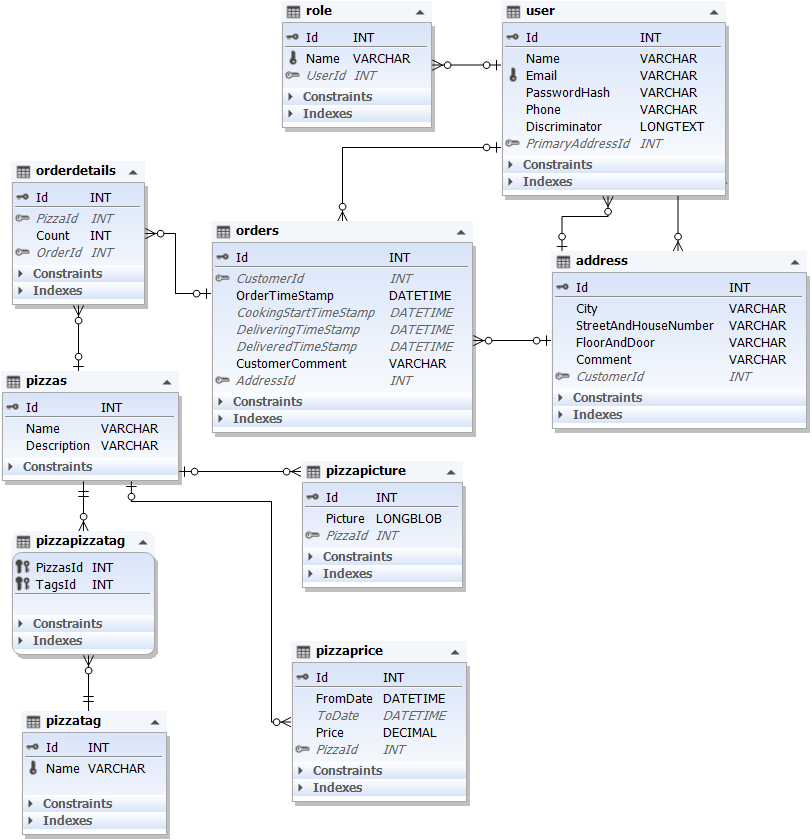
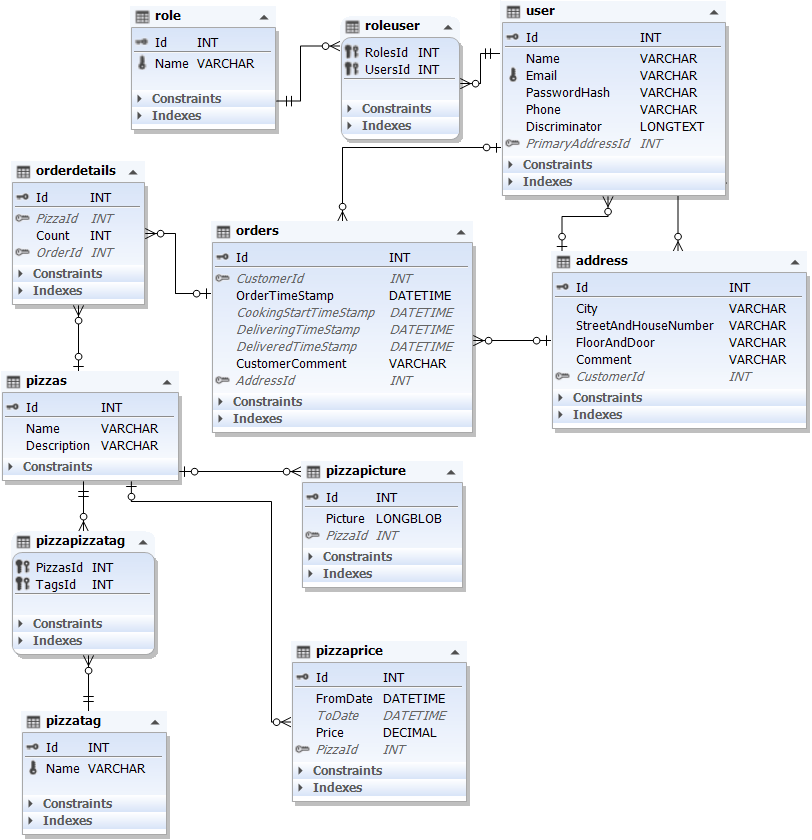
EmployeeRepository

Changed region(s): [[0.1539, 0.0, 0.6158, 0.1857]]

diff --git a/pizzeria/adatbazisLetrehozasa.html b/pizzeria/adatbazisLetrehozasa.html
@@ -217,6 +217,12 @@
     </div>
 </div>
 <p>
+    A létrehozott <i>ApplicationDbContext</i> osztály:
+</p>
+<div class="w-75 mx-auto mb-3" style="max-height: 400px; overflow-y: auto;">
+    <pre class="mb-0"><code class="language-csharp" data-url="Jedlik_FeladatMegoldasok/4a617e19df49f219e930ea651e53b50beeae279e/Fullstack/pizzarendel%C3%A9s/pizzeria.service/ApplicationDbContext.cs" ></code></pre>
+</div>
+<p>
     A következő lépés az adatbázis tényleges létrehozása:
 </p>
 <div class="w-75 mx-auto text-center" style="min-width: 680px;">
@@ -251,14 +257,19 @@
     <img src="DBDiagram_1.png" alt="Db diagram hibás" width="720">
 </p>
 <P>
-    Van vele egy kis gond: egy pizzához csak <i>tag</i>-et lehet rendelni, azaz a két tábla közötti kapcsolat jelenleg 1:N, miközben N:M kapcsolatra lenne szükség. 
-    Ennek a megoldása viszonylag egyszerű: szükség van egy újabb jellemzőre a <i>PizzaTag</i> osztályban: <i>Pizzas</i>.
+    Van vele két probléma: 
+    <ul>
+        <li>
+            Egy pizzához csak <i>tag</i>-et lehet rendelni, azaz a két tábla közötti kapcsolat jelenleg 1:N, miközben N:M kapcsolatra lenne szükség. 
+            Ennek a megoldása viszonylag egyszerű: szükség van egy újabb jellemzőre a <i>PizzaTag</i> osztályban: <i>Pizzas</i>.        
+        </li>
+        <li>
+            A felhasználók és a szerepek között sincs meg az N:M kapcsolat. Itt a <i>Role</i> osztályban egy új <i>Users</i> jellemzővel lehet ezt kikényszeríteni.
+        </li>
+    </ul>
 </P>
-<div class="w-75 mx-auto">
-    <pre class="mb-0"><code class="language-csharp" data-url="Jedlik_FeladatMegoldasok/4a617e19df49f219e930ea651e53b50beeae279e/Fullstack/pizzarendel%C3%A9s/pizzeria.service/models/PizzaTag.cs" ></code></pre>
-</div>
 <p>
-    A javítás és az adatbázis ismételt létrehozása videón:
+    A <i>Pizza</i> és <i>Pizzatag</i> osztályokra vonatkozó javítás és az adatbázis ismételt létrehozása videón:
 </p>
 <div class="w-75 mx-auto text-center" style="min-width: 680px;">
     <ul class="nav nav-tabs" id="myTab5" role="tablist">
@@ -291,43 +302,96 @@
 <p class="text-center py-2">
     <img src="DBDiagram_2.png" alt="Db diagram kész" width="720">
 </p>
-
-<p>
-    Az előző ábrához képest a változás az, hogy megjelent a <i>PizzaPizzatag</i> tábla, ami biztosítja az N:M kapcsolatot a pizzák és tagek között. A fejlesztés egy későbbi fázisában azonban kiderült, hogy ennek a táblának a létrehozását 
-    nem lehet ennyire az Entity Framework-re bízni. Ezen kívül a <i>Pizza</i> osztályban a <i>Tags</i> jellemző értékét nem lehet írni, hiszen most már nincs kapcsolatban az adatbázissal.
-    <br>
-    A szükséges módosítások:
+<p class="mt-2">
+    A módosítások során valamilyen okból az EF átnevezte a <i>User</i> táblát <i>Employees</i>-re. Ez bár nem lenne nagy gond, engem mégis zavart, ezért az <i>User</i>
+    osztály esetében meghatározásra került a tábla neve. Az osztályok, amelyek változtak:
 </p>
 <div>
-    <ul class="nav nav-tabs" id="tabModells_1" role="tablist">
+    <ul class="nav nav-tabs" id="myTab_2" role="tablist">
         <li class="nav-item" role="presentation">
             <button class="nav-link active" id="tab-elso_2" data-bs-toggle="tab" data-bs-target="#tabelso_2" type="button"  role="tab" aria-controls="tabelso_2" aria-selected="true">
-                PizzaPizzaTag
+                PizzaTag
             </button>
         </li>
         <li class="nav-item" role="presentation">
             <button class="nav-link" id="tab-masodik_2" data-bs-toggle="tab" data-bs-target="#tabmasodik_2" type="button"  role="tab" aria-controls="tabmasodik_2" aria-selected="true">
-                Pizza
+                Role
             </button>
         </li>
         <li class="nav-item" role="presentation">
             <button class="nav-link" id="tab-harmadik_2" data-bs-toggle="tab" data-bs-target="#tabharmadik_2" type="button"  role="tab" aria-controls="tabharmadik_2" aria-selected="true">
-                PizzaTag
+                User
             </button>
         </li>
     </ul>
-    <div class="tab-content" id="tabcontentModells_1">
-        <div class="tab-pane fade show active" id="tabelso_2" role="tabpanel" aria-labelledby="tab-elso_2">
-            <pre class="mb-0"><code class="language-csharp" data-url="Jedlik_FeladatMegoldasok/dcd38a51f0e377aac43390c23773f7388c454047/Fullstack/pizzarendel%C3%A9s/pizzeria.service/models/PizzaPizzaTag.cs" ></code></pre>            
+    <div class="tab-content" id="myTabContent_2">
+        <div class="tab-pane fade show active overflow-auto" style="max-height: 620px;" id="tabelso_2" role="tabpanel" aria-labelledby="tab-elso_2">
+            <pre class="mb-0"><code class="language-csharp" data-url="Jedlik_FeladatMegoldasok/4a617e19df49f219e930ea651e53b50beeae279e/Fullstack/pizzarendel%C3%A9s/pizzeria.service/models/PizzaTag.cs" ></code></pre>            
         </div>
-        <div class="tab-pane fade" id="tabmasodik_2" role="tabpanel" aria-labelledby="tab-masodik_2">
-            <pre class="mb-0"><code class="language-csharp" data-url="Jedlik_FeladatMegoldasok/5766357c579b500d5dc62232a814b213652c1c8e/Fullstack/pizzarendel%C3%A9s/pizzeria.service/models/Pizza.cs" ></code></pre>
+        <div class="tab-pane fade overflow-auto" style="max-height: 620px;" id="tabmasodik_2" role="tabpanel" aria-labelledby="tab-masodik_2">
+            <pre class="mb-0"><code class="language-csharp" data-url="Jedlik_FeladatMegoldasok/4c7ecfcc0fab8f56740eb2dbb5cc79b982f4ac37/Fullstack/pizzarendel%C3%A9s/pizzeria.service/models/Role.cs" ></code></pre>            
         </div>
-        <div class="tab-pane fade" id="tabharmadik_2" role="tabpanel" aria-labelledby="tab-harmadik_2">
-            <pre class="mb-0"><code class="language-csharp" data-url="Jedlik_FeladatMegoldasok/dcd38a51f0e377aac43390c23773f7388c454047/Fullstack/pizzarendel%C3%A9s/pizzeria.service/models/PizzaTag.cs" ></code></pre>
+        <div class="tab-pane fade overflow-auto" style="max-height: 620px;" id="tabharmadik_2" role="tabpanel" aria-labelledby="tab-harmadik_2">
+            <pre class="mb-0"><code class="language-csharp" data-url="Jedlik_FeladatMegoldasok/4c7ecfcc0fab8f56740eb2dbb5cc79b982f4ac37/Fullstack/pizzarendel%C3%A9s/pizzeria.service/models/User.cs" ></code></pre>            
         </div>
+    </div>
 </div>
-<p>Egy újabb migráció és adatfrissítés után az látszik az adatbázison, hogy csupán a <i>PizzaPizzaTag</i> táblában lévő mezők nevei módosultak.</p>
+
+
+<p>
+    Az előző ábrához képest a változás az, hogy megjelent a <i>PizzaPizzatag</i> és a <i>RoleUser</i> tábla, Amelyek biztosítják a szükséges N:M kapcsolatokat.
+    A fejlesztés egy későbbi fázisában azonban kiderült, hogy ezeknek a táblának a létrehozását nem lehet ennyire az Entity Framework-re bízni. 
+    Ezen kívül a <i>Pizza</i> osztályban a <i>Tags</i> jellemző értékét nem lehet írni, hiszen most már nincs kapcsolatban az adatbázissal.
+    <br>
+    A szükséges módosítások:
+</p>
+<div>
+    <ul class="nav nav-tabs" id="tabModells_3" role="tablist">
+        <li class="nav-item" role="presentation">
+            <button class="nav-link active" id="tab-elso_3" data-bs-toggle="tab" data-bs-target="#tabelso_3" type="button"  role="tab" aria-controls="tabelso_3" aria-selected="true">
+                PizzaPizzaTag
+            </button>
+        </li>
+        <li class="nav-item" role="presentation">
+            <button class="nav-link" id="tab-masodik_3" data-bs-toggle="tab" data-bs-target="#tabmasodik_3" type="button"  role="tab" aria-controls="tabmasodik_3" aria-selected="true">
+                Pizza
+            </button>
+        </li>
+        <li class="nav-item" role="presentation">
+            <button class="nav-link" id="tab-harmadik_3" data-bs-toggle="tab" data-bs-target="#tabharmadik_3" type="button"  role="tab" aria-controls="tabharmadik_3" aria-selected="true">
+                PizzaTag
+            </button>
+        </li>
+        <li class="nav-item" role="presentation">
+            <button class="nav-link" id="tab-negyedik_3" data-bs-toggle="tab" data-bs-target="#tabnegyedik_3" type="button"  role="tab" aria-controls="tabnegyedik_3" aria-selected="true">
+                UserRole
+            </button>
+        </li>
+        <li class="nav-item" role="presentation">
+            <button class="nav-link" id="tab-otodik_3" data-bs-toggle="tab" data-bs-target="#tabotodik_3" type="button"  role="tab" aria-controls="tabotodik_3" aria-selected="true">
+                User
+            </button>
+        </li>
+    </ul>
+    <div class="tab-content" id="tabcontentModells_3" >
+        <div class="tab-pane fade show active overflow-auto" style="max-height: 620px;" id="tabelso_3" role="tabpanel" aria-labelledby="tab-elso_3">
+            <pre class="mb-0"><code class="language-csharp" data-url="Jedlik_FeladatMegoldasok/a1c6641994557889735f10f48860a1865d76475c/Fullstack/pizzarendel%C3%A9s/pizzeria.service/models/PizzaPizzaTag.cs" ></code></pre>            
+        </div>
+        <div class="tab-pane fade overflow-auto" style="max-height: 620px;" id="tabmasodik_3" role="tabpanel" aria-labelledby="tab-masodik_3">
+            <pre class="mb-0"><code class="language-csharp" data-url="Jedlik_FeladatMegoldasok/a1c6641994557889735f10f48860a1865d76475c/Fullstack/pizzarendel%C3%A9s/pizzeria.service/models/Pizza.cs" ></code></pre>
+        </div>
+        <div class="tab-pane fade overflow-auto" style="max-height: 620px;" id="tabharmadik_3" role="tabpanel" aria-labelledby="tab-harmadik_3">
+            <pre class="mb-0"><code class="language-csharp" data-url="Jedlik_FeladatMegoldasok/a1c6641994557889735f10f48860a1865d76475c/Fullstack/pizzarendel%C3%A9s/pizzeria.service/models/PizzaTag.cs" ></code></pre>
+        </div>
+        <div class="tab-pane fade overflow-auto" style="max-height: 620px;" id="tabnegyedik_3" role="tabpanel" aria-labelledby="tab-negyedik_3">
+            <pre class="mb-0"><code class="language-csharp" data-url="Jedlik_FeladatMegoldasok/a1c6641994557889735f10f48860a1865d76475c/Fullstack/pizzarendel%C3%A9s/pizzeria.service/models/UserRole.cs" ></code></pre>
+        </div>
+        <div class="tab-pane fade overflow-auto" style="max-height: 620px;" id="tabotodik_3" role="tabpanel" aria-labelledby="tab-otodik_3">
+            <pre class="mb-0"><code class="language-csharp" data-url="Jedlik_FeladatMegoldasok/a1ed006b253db8431e4e70b58b66f2567fb5499c/Fullstack/pizzarendel%C3%A9s/pizzeria.service/models/User.cs" ></code></pre>
+        </div>
+    </div>
+</div>
+<p>Egy újabb migráció és adatfrissítés után az látszik az adatbázison, hogy a <i>PizzaPizzaTag</i> táblában lévő mezők nevei módosultak, valamint a <i>RoleUser</i> tábla neve <i>UserRole</i>-ra változott.</p>
 
 <div class="row my-3">
     <div class="offset-1 col-5">

diff --git a/pizzeria/muveletekTervezese.html b/pizzeria/muveletekTervezese.html
@@ -41,21 +41,21 @@
     </ul>
     <div class="tab-content" id="tabcontentPizzaInterfaces">
         <div class="tab-pane fade show active" id="tabelso" role="tabpanel" aria-labelledby="tab-elso">
-            <pre class="mb-0"><code class="language-csharp" data-url="Jedlik_FeladatMegoldasok/d647ae3e7eeb0e8048f0c0ee3d0d3e8eb86476d8/Fullstack/pizzarendel%C3%A9s/pizzeria.data/interfaces/operations/ICustomerRepository.cs" ></code></pre>
+            <pre class="mb-0"><code class="language-csharp" data-url="Jedlik_FeladatMegoldasok/a1ed006b253db8431e4e70b58b66f2567fb5499c/Fullstack/pizzarendel%C3%A9s/pizzeria.data/interfaces/operations/ICustomerRepository.cs" ></code></pre>
             <p>
                 A generikus interface-ből valószínűleg az <i>AddRange</i> és a <i>RemoveRange</i> metódusokat a későbbiek során nem kell implementelni, valószínűleg az alkalmazásban nem lesz csoportos létrehozás és csoportos törlés az 
                 ügyfelekre vonatkozóan.
             </p>
         </div>
         <div class="tab-pane fade" id="tabmasodik" role="tabpanel" aria-labelledby="tab-masodik">
-            <pre class="mb-0"><code class="language-csharp" data-url="Jedlik_FeladatMegoldasok/d647ae3e7eeb0e8048f0c0ee3d0d3e8eb86476d8/Fullstack/pizzarendel%C3%A9s/pizzeria.data/interfaces/operations/IEmployeeRepository.cs" ></code></pre>
+            <pre class="mb-0"><code class="language-csharp" data-url="Jedlik_FeladatMegoldasok/cd0e7b1b89800156ee8666c57864f7825c3b7501/Fullstack/pizzarendel%C3%A9s/pizzeria.data/interfaces/operations/IEmployeeRepository.cs" ></code></pre>
             <p>
                 A generikus interface-ből valószínűleg az <i>AddRange</i> és a <i>RemoveRange</i> metódusokat a későbbiek során itt sem kell implementelni, valószínűleg az alkalmazásban nem lesz csoportos létrehozás és csoportos törlés az 
                 dolgozókra vonatkozóan sem.
             </p>
         </div>
         <div class="tab-pane fade" id="tabharmadik" role="tabpanel" aria-labelledby="tab-harmadik">
-            <pre class="mb-0"><code class="language-csharp" data-url="Jedlik_FeladatMegoldasok/d647ae3e7eeb0e8048f0c0ee3d0d3e8eb86476d8/Fullstack/pizzarendel%C3%A9s/pizzeria.data/interfaces/operations/IOrderRepository.cs" ></code></pre>
+            <pre class="mb-0"><code class="language-csharp" data-url="Jedlik_FeladatMegoldasok/a1ed006b253db8431e4e70b58b66f2567fb5499c/Fullstack/pizzarendel%C3%A9s/pizzeria.data/interfaces/operations/IOrderRepository.cs" ></code></pre>
             <p>
                 Csoportos törlés és csoportos létrehozás várhatóan itt sem lesz, azonban megjelent a generikus interface-hez képest néhány új metódus, ami a rendelés folyamatának rögzítésére szolgálnak.
             </p>

diff --git a/pizzeria/repositoryTests.html b/pizzeria/repositoryTests.html
@@ -444,3 +444,29 @@
         </div>
     </div>
 </div>
+
+<hr>
+<h3 id="employeeRepository">EmployeeRepository</h3>
+<p>Ennél a repository-nál csak kis mértékben kellett a <i>GenericRepositroy</i> metódusati felülírni:</p>
+<div>
+    <ul class="nav nav-tabs" id="myTab_11" role="tablist">
+        <li class="nav-item" role="presentation">
+            <button class="nav-link active" id="tab-elso_11" data-bs-toggle="tab" data-bs-target="#tabelso_11" type="button"  role="tab" aria-controls="tabelso_11" aria-selected="true">
+                EmployeeRepository
+            </button>
+        </li>
+        <li class="nav-item" role="presentation">
+            <button class="nav-link" id="tab-masodik_11" data-bs-toggle="tab" data-bs-target="#tabmasodik_11" type="button"  role="tab" aria-controls="tabmasodik_11" aria-selected="true">
+                EmployeeRepositoryTests
+            </button>
+        </li>
+    </ul>
+    <div class="tab-content" id="myTabContent_11">
+        <div class="tab-pane fade show active overflow-auto" style="max-height: 620px;" id="tabelso_11" role="tabpanel" aria-labelledby="tab-elso_11">
+            <pre class="mb-0"><code class="language-csharp" data-url="Jedlik_FeladatMegoldasok/a1ed006b253db8431e4e70b58b66f2567fb5499c/Fullstack/pizzarendel%C3%A9s/pizzeria.service/repositories/EmployeeRepository.cs" ></code></pre>
+        </div>
+        <div class="tab-pane fade overflow-auto" style="max-height: 620px;" id="tabmasodik_11" role="tabpanel" aria-labelledby="tab-masodik_11">
+            <pre class="mb-0"><code class="language-csharp" data-url="Jedlik_FeladatMegoldasok/a1ed006b253db8431e4e70b58b66f2567fb5499c/Fullstack/pizzarendel%C3%A9s/pizzeria.service.tests/EmployeeRepositoryTests.cs" ></code></pre>
+        </div>
+    </div>
+</div>

diff --git a/pizzeria/serviceTestProject.html b/pizzeria/serviceTestProject.html
@@ -53,7 +53,7 @@
     hiszen minden tesztelés előtt a memóriában "felépül" az adatbázis, és a teszt futtatása után törlődik is onnan. Az alábbi kód mutatja az elkészült osztályt:
 </p>
 <div>
-    <pre class="mb-0"><code class="language-csharp" data-url="Jedlik_FeladatMegoldasok/038d8be9e2f06469618a84167450ff9913643023/Fullstack/pizzarendel%C3%A9s/pizzeria.service.tests/TestDbContext.cs" ></code></pre>
+    <pre class="mb-0"><code class="language-csharp" data-url="Jedlik_FeladatMegoldasok/a1ed006b253db8431e4e70b58b66f2567fb5499c/Fullstack/pizzarendel%C3%A9s/pizzeria.service.tests/TestDbContext.cs" ></code></pre>
 </div>
 <p>
     Az <i>OnCofiguring</i> metódus felülbírálása (override) biztosítja, hogy az adatbázis a memóriában jöjjön létre. Az <i>OnModelCreating</i> metódus első sora az ősosztályban már megadott induló adatokat hozza létre,

diff --git a/pizzeria/sidebar.html b/pizzeria/sidebar.html
@@ -29,5 +29,6 @@
 <p role="button" data-page="repositoryTests" data-title="Repository tesztek">Repository tesztek</p>
 <p role="button" class="ps-4 small" data-page="repositoryTests#pizzaTagRepository">PizzaTagRepository</p>
 <p role="button" class="ps-4 small" data-page="repositoryTests#pizzaRepository">PizzaRepository</p>
+<p role="button" class="ps-4 small" data-page="repositoryTests#employeeRepository">EmployeeRepository</p>
 
 
